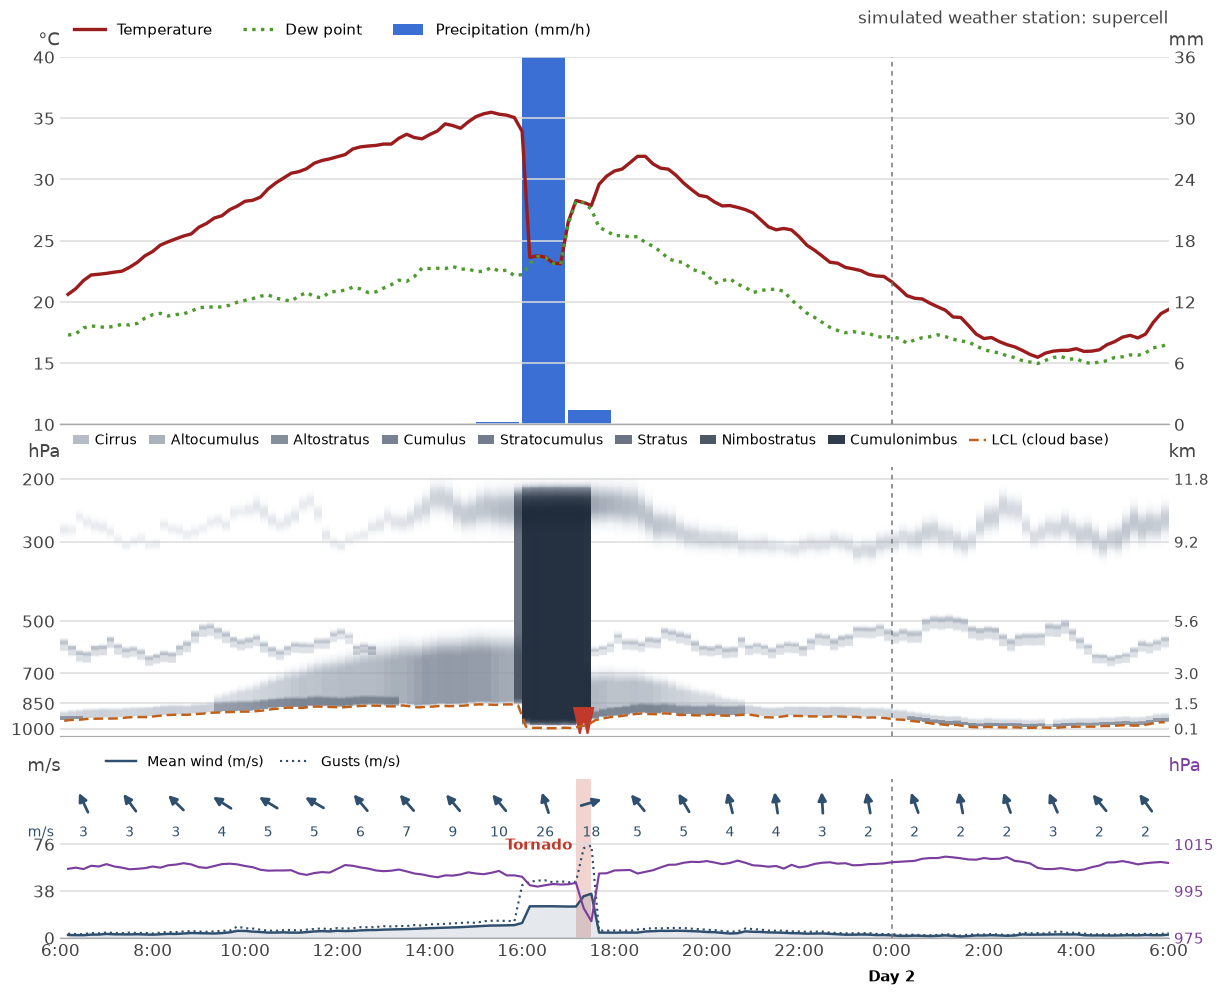
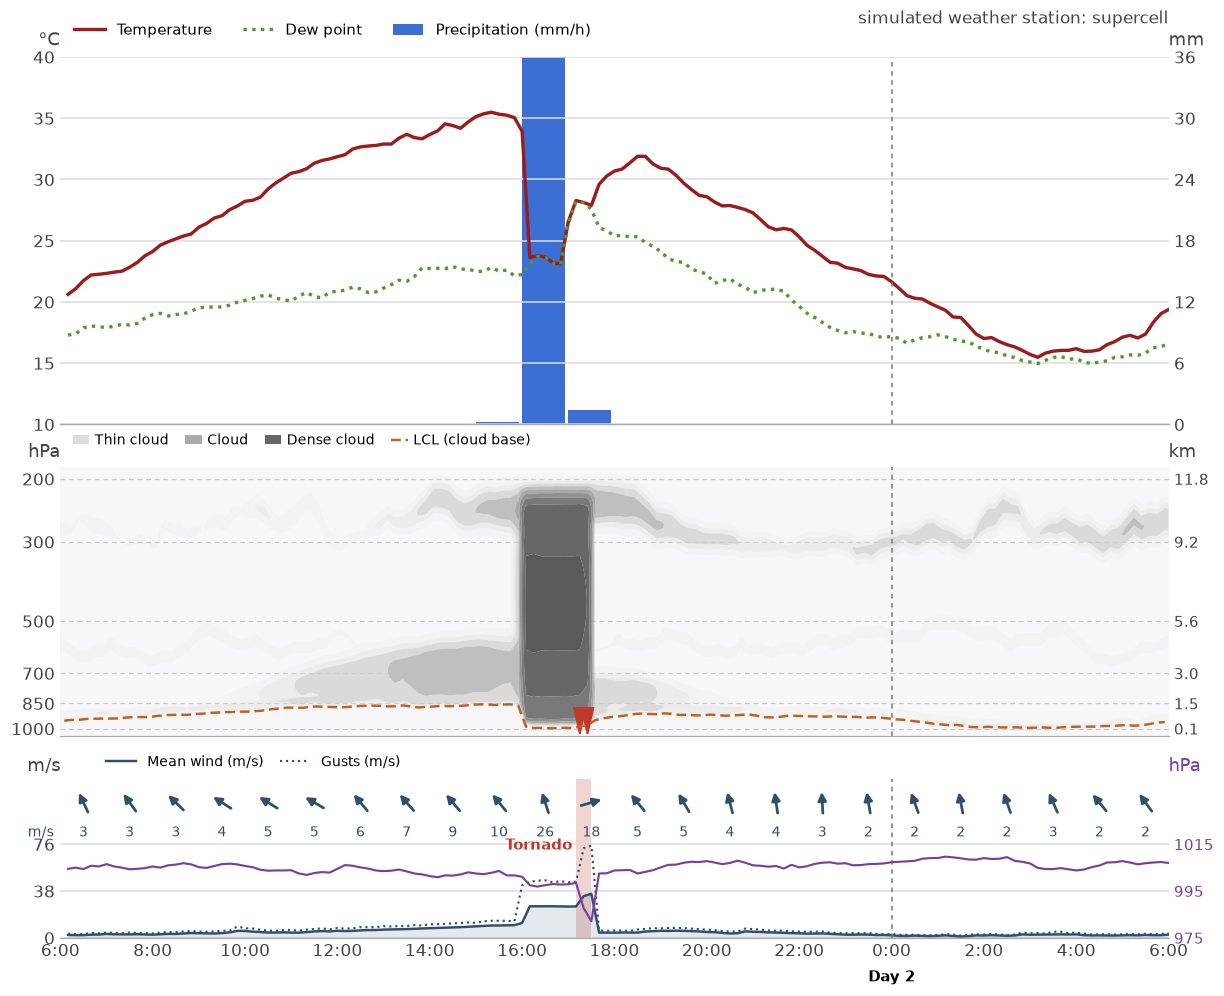
Render Windy-style cloud contours across all scenario charts
Replace striped cloud image columns with neutral grayscale density contours, graded cloud interiors and interpolated layer amounts and heights. Retain measured values and pressure levels, leave missing-record intervals blank and preserve cloud-base/tornado overlays. Use a compact density legend and dashed height guides.

Regenerate 24-hour charts from QEMU for all seven weather scenarios, add the dedicated thunderstorm chart, refresh the featured README picture and document display interpolation.

Validation: all five QEMU plotting/import tests pass, including live and maximum-speed recording. Each scenario imports 144 records; all seven PNGs and README links validate. Check clear and single-record fields, missing-data masks, nonnegative density and neutral monotone grayscale. Firmware behavior is unchanged.

diff --git a/tools/weather_tool.py b/tools/weather_tool.py
@@ -218,7 +218,7 @@ RAIN_COLOR = "#3b6fd4"
 # All clouds share one colour scale: the denser the cloud, the darker it is,
 # from thin wispy cirrus to the towering, opaque cumulonimbus.
 CLOUD_TYPES = [
-    # Drawn in this order. key, label, density (optical thickness at full
+    # key, label, density (optical thickness at full
     # cover), base, top: a column name (per record) or a fixed hPa
     # (fallback for older CSVs); then how soft the lower and upper edges
     # are, as fractions of the layer's depth.
@@ -231,8 +231,9 @@ CLOUD_TYPES = [
     ("nimbostratus", "Nimbostratus", 2.6, ("lcl", 950), ("nimbostratus_top", 550), 0.15, 0.25),
     ("cumulonimbus", "Cumulonimbus", 4.0, ("lcl", 900), (None, 200), 0.04, 0.15),
 ]
-CLOUD_LIGHT = "#c3ccd8"  # the thinnest visible cloud
-CLOUD_DARK = "#1f2a3a"   # the densest
+CLOUD_LIGHT = "#dfdfdf"  # the thinnest visible cloud
+CLOUD_DARK = "#555555"   # dense cloud cores
+CLOUD_BANDS = [0.015, 0.12, 0.25, 0.45, 0.75, 1.2, 1.8, 2.6, 3.6, 5.0, 8.0]
 LCL_COLOR = "#c0601a"
 PRESSURE_TICKS = [1000, 850, 700, 500, 300, 200]
 # Standard-atmosphere heights of those levels, for the km scale.
@@ -262,32 +263,74 @@ def smoothstep(x):
 
 def cloud_colours(thickness):
     """RGBA for cloud optical thicknesses: transparent where there's none,
-    then from light grey to dark slate as the cloud gets thicker."""
+    then from pale grey to charcoal as the cloud gets thicker."""
     import matplotlib.colors
     import numpy as np
 
-    darkness = 1 - np.exp(-thickness / 1.6)  # 0 clear .. 1 opaque
+    darkness = 1 - np.exp(-thickness / 1.7)  # 0 clear .. 1 opaque
     light = np.array(matplotlib.colors.to_rgb(CLOUD_LIGHT))
     dark = np.array(matplotlib.colors.to_rgb(CLOUD_DARK))
     shade = np.clip((darkness - 0.1) / 0.85, 0, 1)[..., None]
     rgba = np.empty(thickness.shape + (4,))
     rgba[..., :3] = light + (dark - light) * shade
-    rgba[..., 3] = np.clip(darkness * 2.2, 0, 1)  # faint cloud fades out
+    rgba[..., 3] = np.clip(darkness * 4.0, 0, 1)  # faint cloud fades out
     return rgba
 
 
-def draw_cloud_panel(ax, readings):
-    """Time-height cross-section of the cloud layers on a pressure axis.
+def cloud_density(readings, rows=300):
+    """Interpolate measured layer amounts/heights for a smooth display field.
 
-    Rendered as an image on a log-pressure grid (pressure falls roughly
-    exponentially with height): one column per 10-minute record, no smoothing
-    between records. Each layer spans its own base and top for that record
-    and has edges shaped like the cloud: cumulus a flat base at the LCL and
-    a soft billowing top, cirrus wispy and densest in the middle, altostratus
-    a sheet. All types share one colour scale: their optical thickness adds
-    up, and the thicker the cloud, the darker it is. The LCL is drawn as a
-    line."""
-    import matplotlib.colors
+    Interpolation stays between adjacent records. Missing record intervals are
+    masked rather than inventing clouds across a gap in the imported data.
+    """
+    import matplotlib.dates as mdates
+    import numpy as np
+
+    width = RECORD_MINUTES / 1440
+    centers = np.array([mdates.date2num(r["when"]) - width / 2 for r in readings])
+    left, right = centers[0] - width / 2, centers[-1] + width / 2
+    samples = max(5, min(4096, math.ceil((right - left) / width * 4) + 1))
+    times = np.unique(np.r_[np.linspace(left, right, samples), centers])
+    levels = np.log(np.geomspace(185.0, 1050.0, rows))
+    thickness = np.zeros((rows, len(times)))
+
+    def interpolate(values):
+        return np.interp(times, centers, values)[None, :]
+
+    for key, _, density, (base_key, base_fixed), (top_key, top_fixed), soft_base, soft_top in CLOUD_TYPES:
+        amount = interpolate([min(max((r.get(key) or 0.0) / 100.0, 0.0), 1.0) for r in readings])
+        base = interpolate([math.log(r.get(base_key) or base_fixed) if base_key else math.log(base_fixed)
+                            for r in readings])
+        top = interpolate([math.log(r.get(top_key) or top_fixed) if top_key else math.log(top_fixed)
+                           for r in readings])
+        depth = base - top
+        valid = depth > 0
+        safe_depth = np.where(valid, depth, 1.0)
+        above_base = (base - levels[:, None]) / (safe_depth * soft_base)
+        below_top = (levels[:, None] - top) / (safe_depth * soft_top)
+        profile = smoothstep(above_base) * smoothstep(below_top)
+        if key == "cirrus":
+            profile *= np.exp(-(((levels[:, None] - (base + top) / 2) / (safe_depth / 2.2)) ** 2))
+        else:
+            # A graded interior reveals overlapping layers instead of painting
+            # a solid wall from cloud base to top. No synthetic weather noise.
+            height = np.clip((levels[:, None] - top) / safe_depth, 0.0, 1.0)
+            profile *= 0.35 + 0.65 * np.sin(np.pi * height) ** 0.8
+        thickness += profile * density * amount * valid
+
+    for previous, following in zip(centers, centers[1:]):
+        if following - previous > width * 1.5:
+            missing = (times > previous + width / 2) & (times < following - width / 2)
+            thickness[:, missing] = np.nan
+    return times, levels, thickness
+
+
+def draw_cloud_panel(ax, readings):
+    """Windy-style grayscale cloud contours on a log-pressure height axis.
+
+    Cloud amounts and layer boundaries are interpolated only for rendering;
+    measurements, rain totals, and the simulated weather remain unchanged.
+    """
     import matplotlib.dates as mdates
     import numpy as np
     from matplotlib.lines import Line2D
@@ -296,41 +339,18 @@ def draw_cloud_panel(ax, readings):
 
     layered = [r for r in readings if r.get("lcl") is not None]
     p_bottom, p_top = 1050.0, 185.0
-    rows = 300
-    levels = np.log(np.geomspace(p_top, p_bottom, rows))  # row 0 = top of the sky
-    width = RECORD_MINUTES / 1440  # one column per record, in days
-
-    thickness = np.zeros((rows, len(layered)))
-    for key, _, density, (base_key, base_fixed), (top_key, top_fixed), soft_base, soft_top in CLOUD_TYPES:
-        for column, r in enumerate(layered):
-            amount = min((r.get(key) or 0.0) / 100.0, 1.0)
-            if amount <= 0.005:
-                continue
-            base = np.log(r.get(base_key) or base_fixed) if base_key else np.log(base_fixed)
-            top = np.log(r.get(top_key) or top_fixed) if top_key else np.log(top_fixed)
-            depth = base - top  # in log-pressure, base is the larger value
-            if depth <= 0:
-                continue
-            above_base = (base - levels) / (depth * soft_base)  # 0 at the base
-            below_top = (levels - top) / (depth * soft_top)     # 0 at the top
-            profile = smoothstep(above_base) * smoothstep(below_top)
-            if key == "cirrus":
-                # Wispy: densest in the middle of the layer.
-                middle = (base + top) / 2
-                profile *= np.exp(-(((levels - middle) / (depth / 2.2)) ** 2))
-            # Even a little cloud shows; more of it is thicker.
-            thickness[:, column] += profile * density * (0.25 + 0.75 * amount)
-
-    image = cloud_colours(thickness)
-    starts = [mdates.date2num(r["when"]) - width for r in layered]
-    ax.imshow(image, extent=(starts[0], starts[-1] + width, np.log(p_bottom), np.log(p_top)),
-              aspect="auto", interpolation="nearest", origin="upper", zorder=2)
+    width = RECORD_MINUTES / 1440
+    times, levels, thickness = cloud_density(layered)
+    swatches = cloud_colours(np.array([(low + high) / 2 for low, high in zip(CLOUD_BANDS, CLOUD_BANDS[1:])]))
+    ax.set_facecolor("#f7f7f9")
+    ax.contourf(times, levels, np.ma.masked_invalid(thickness), levels=CLOUD_BANDS,
+                colors=swatches, extend="max", antialiased=True, corner_mask=False, zorder=2)
     ax.set_ylim(np.log(p_bottom), np.log(p_top))  # surface at the bottom
     ticks = np.log(PRESSURE_TICKS)
     ax.yaxis.set_major_locator(FixedLocator(ticks))
     ax.yaxis.set_minor_locator(NullLocator())
     ax.set_yticklabels([str(p) for p in PRESSURE_TICKS])
-    ax.grid(axis="y", color=GRID_COLOR, lw=1, zorder=1)
+    ax.grid(axis="y", color="#c9c9ce", lw=0.8, ls=(0, (4, 3)), zorder=3)
 
     # A tornado: a funnel from the lowered wall cloud down to the ground.
     for r in layered:
@@ -353,12 +373,12 @@ def draw_cloud_panel(ax, readings):
     km.spines["right"].set_visible(False)
     ax.text(1, 1.02, "km", transform=ax.transAxes, ha="left", va="bottom", fontsize=12, color="#444444")
 
-    # Each type's swatch is its shade at 70 % cover.
-    swatches = cloud_colours(np.array([[density * (0.25 + 0.75 * 0.7) for _, _, density, *_ in CLOUD_TYPES]]))[0]
-    handles = [Patch(facecolor=swatch, label=label) for swatch, (_, label, *_) in zip(swatches, CLOUD_TYPES)]
-    handles.append(Line2D([], [], color=LCL_COLOR, lw=1.6, ls=(0, (4, 2)), label="LCL (cloud base)"))
-    ax.legend(handles=handles, loc="upper left", bbox_to_anchor=(0.0, 1.17), ncol=len(handles),
-              frameon=False, fontsize=9, handlelength=1.2, handletextpad=0.4, columnspacing=0.9)
+    handles = [Patch(facecolor="#dddddd", label="Thin cloud"),
+               Patch(facecolor="#aaaaaa", label="Cloud"),
+               Patch(facecolor="#666666", label="Dense cloud"),
+               Line2D([], [], color=LCL_COLOR, lw=1.6, ls=(0, (4, 2)), label="LCL (cloud base)")]
+    ax.legend(handles=handles, loc="upper left", bbox_to_anchor=(0.0, 1.17), ncol=4,
+              frameon=False, fontsize=9, handlelength=1.2, handletextpad=0.4, columnspacing=1.2)
 
 
 def plot(readings, out_path, hours=24, title=None):

diff --git a/README.md b/README.md
@@ -14,14 +14,15 @@ Its simulated sensors measure temperature, humidity, wind speed and direction, r
 cloud cover, and cloud layers. Readings are printed on the UART, logged, and served
 over **Ethernet** through a virtio-net driver and a minimal IPv4 stack (ARP, ping, UDP).
 A Python tool imports the log and plots it in the style of the Finnish Meteorological
-Institute's forecast chart:
+Institute's forecast chart, with Windy-style cloud shading:
 
 **Scenario `thunderstorm`**: a hot, humid day. Anvil cirrus spreads ahead of the
 cumulonimbus, then afternoon cloudbursts and gusts.
 
-![A simulated thunderstorm day (scenario thunderstorm)](docs/weather_chart.png)
+[![A simulated thunderstorm day (scenario thunderstorm)](docs/weather_chart.png)](docs/scenarios/thunderstorm.png)
 
-The other scenarios, one simulated day each from 06:00 (made with
+All seven scenario charts use the same cloud shading. The other scenarios,
+one simulated day each from 06:00 (made with
 `python tools/weather_tool.py demo --scenario <name>`; see [Weather scenarios](#weather-scenarios)):
 
 <table>
@@ -242,11 +243,11 @@ matplotlib, in the style of the [FMI forecast chart](https://www.ilmatieteenlait
 - **Top panel:** temperature (red), dew point (green, dotted, computed from temperature and
   humidity), and hourly precipitation bars on the right-hand mm axis.
 - **Cloud panel** (with cloud layer data): a time-height cross-section on a log-pressure
-  axis, 1000 hPa at the bottom to 200 hPa at the top, with km on the right. Each 10-minute
-  record is one column, with no smoothing between records. Every cloud type spans its own
-  base and top for that record. All types share one grey colour scale: their thickness adds
-  up, and the denser the cloud, the darker it is, from pale thin cirrus to near-black
-  cumulonimbus. More of a type is denser:
+  axis, 1000 hPa at the bottom to 200 hPa at the top, with km on the right.
+  Windy-style grayscale contours show cloud density: pale edges, layered grey bands,
+  and darker cores. Cloud amounts and base/top heights are interpolated between
+  adjacent 10-minute records for display; missing record intervals stay blank.
+  All cloud types contribute to the same shading, with denser cover appearing darker:
   - cirrus is wispy and densest in its middle, drifting around 10 km
   - altostratus is an undulating sheet, with patchy altocumulus in it
   - stratus and stratocumulus are low layers resting on the cloud base
